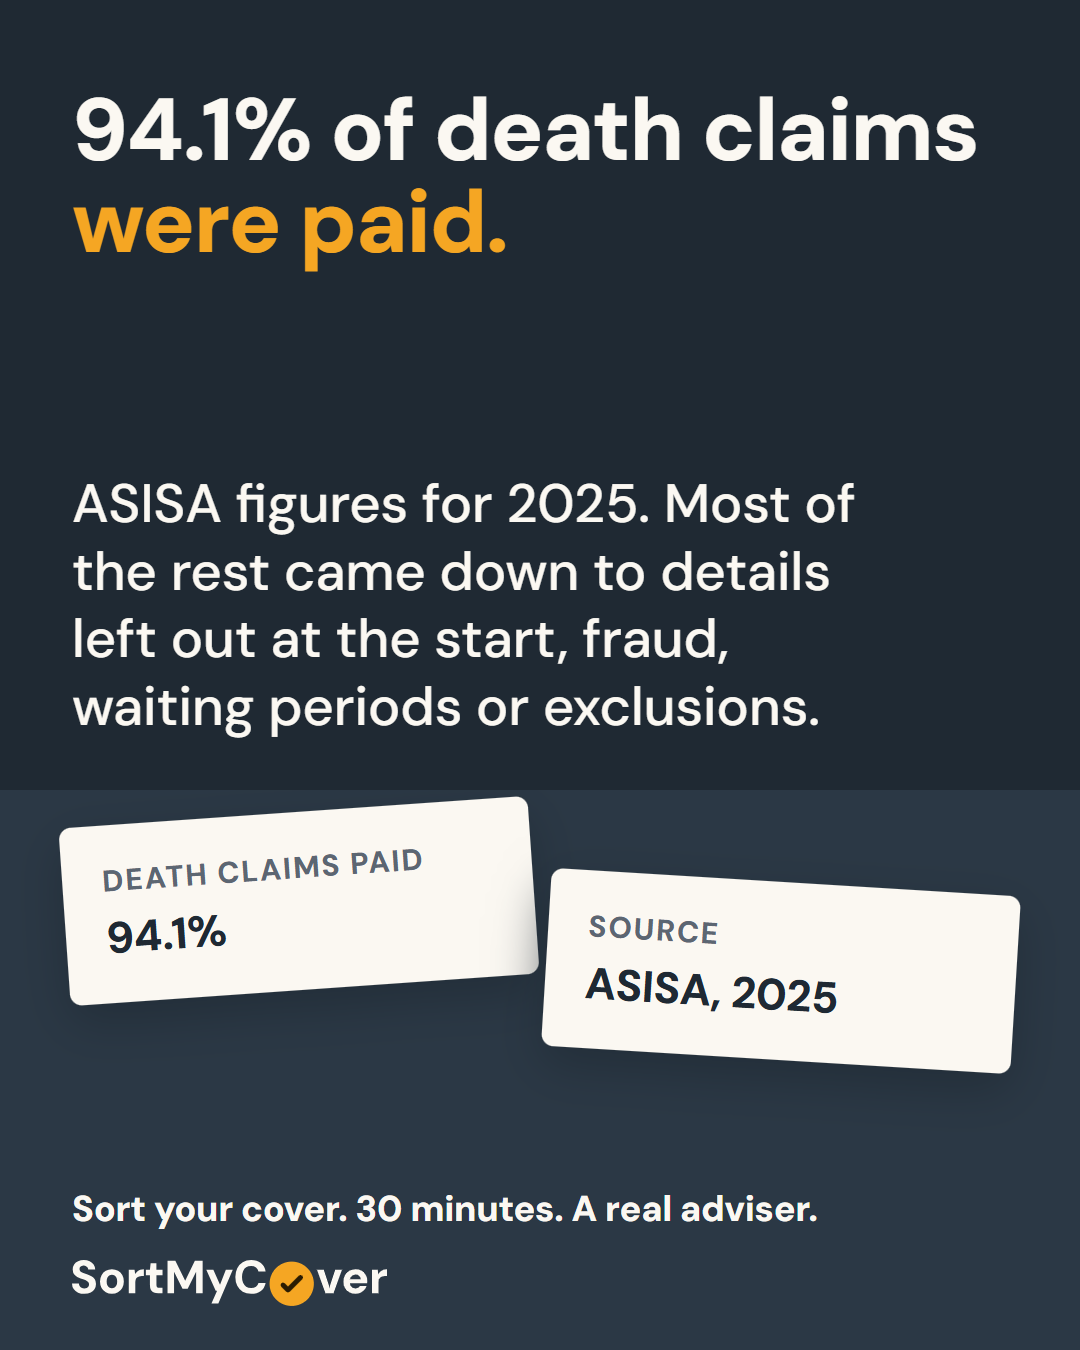
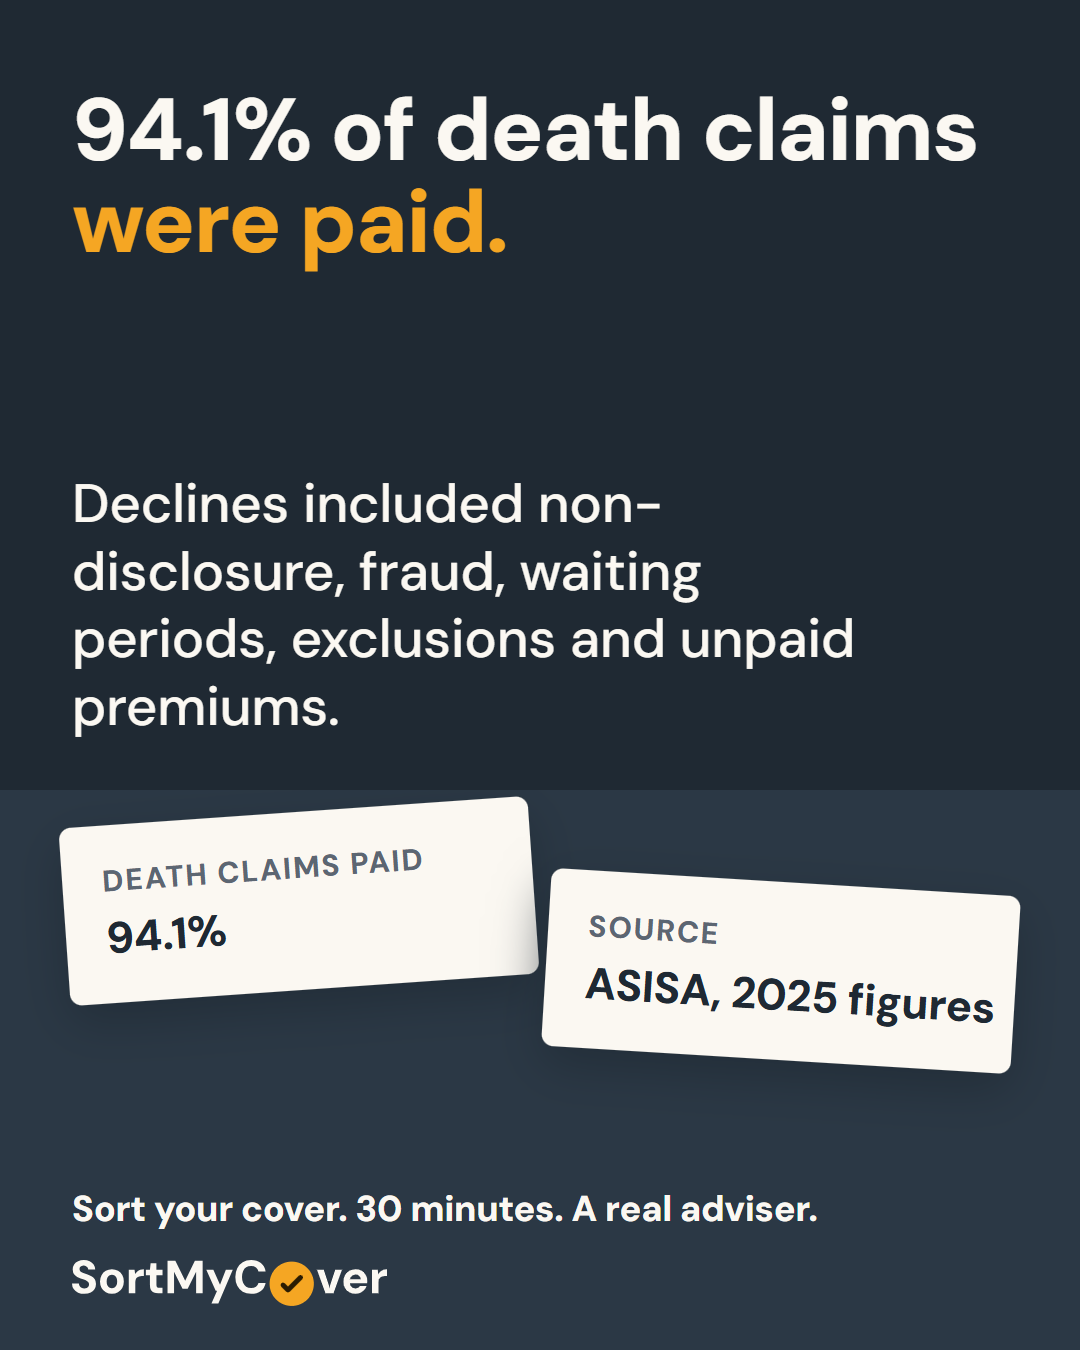
smc: posts corrected after adversarial QA (WU02 live, WU05/C01-C03 scheduled), C01 image re-rendered, FB bio v4

Changed region(s): [[0.0611, 0.3422, 0.7944, 0.56], [0.7639, 0.7156, 0.9167, 0.7778]]

diff --git a/deliverables/brand-naming-lead/disclosure-wording.md b/deliverables/brand-naming-lead/disclosure-wording.md
@@ -32,8 +32,8 @@ Character counts are hand-counted, including spaces and punctuation. The person 
 | `DISC-WA-DESC-v2` | WhatsApp Business profile: Description | SortMyCover gives no financial advice, product comparisons or premium quotes. Licensed financial advisers do. Our WhatsApp assistant uses AI. Type "person" at any time to reach a human. Reply STOP to opt out. Privacy: sortmycover.co.za/privacy.html | 248 |
 | `DISC-CARD-v2` | Broker intro card, strip under the broker's details | Introduced by SortMyCover. SortMyCover gives no financial advice, product comparisons or premium quotes. | 104 |
 | `DISC-EMAIL-v2` | Consumer email signature (below) | `DISC-FULL-v2` plus a privacy link | n/a |
-| `BIO-FB-v3`, `BIO-IG-v3` | Facebook intro, Instagram bio | **Unchanged** (§4a of v1): bios describe the service and carry no disclosure | 95, 131 |
-| `DISC-S97-v1`, `DISC-S148-v1` | Old short forms | **Withdrawn.** They named Lead Velocity. Use `DISC-S91-v2` on end-cards. Bios use `BIO-*-v3` | n/a |
+| `BIO-FB-v4`, `BIO-IG-v5` | Facebook intro, Instagram bio | Bios describe the service and carry no disclosure (copy workflow 2026-10-05) | 99, 145 |
+| `DISC-S97-v1`, `DISC-S148-v1` | Old short forms | **Withdrawn.** They named Lead Velocity. Use `DISC-S91-v2` on end-cards. Bios use `BIO-FB-v4` / `BIO-IG-v5` | n/a |
 | `CONSENT-NAMED-v2` | Named consent, beside the form | I agree that SortMyCover may share my details with {practice_name} (FSP {fsp_number}), an authorised financial services provider, who may contact me by WhatsApp or phone about life cover. I can opt out at any time by replying STOP. + `CONSENT-ADS-v1` sentence + "Privacy notice" link | n/a |
 | `CONSENT-GENERIC-v2` | Generic consent (only if the practitioner approves it) | I agree that SortMyCover may share my details with an authorised financial services provider (FSP), who may contact me by WhatsApp or phone about life cover. I can opt out at any time by replying STOP. + `CONSENT-ADS-v1` sentence + link | n/a |
 
@@ -61,8 +61,8 @@ Broker-facing mail keeps the Lead Velocity signature from howzit@leadvelocity.co
 | About page | `DISC-FULL-v2` | Says SortMyCover is a South African service and points to the privacy notice and terms for the responsible company. No address, Reg No or Information Officer |
 | Form / consent area | `CONSENT-*-v2` | Privacy link always beside it |
 | `privacy.html`, `terms.html` | Legal text, **names Lead Velocity** | The only two places. The footer on these two pages is the same `DISC-FULL-v2` |
-| Facebook Page | `DISC-FULL-v2` in About → details; intro = `BIO-FB-v3` | |
-| Instagram | `BIO-IG-v3` | |
+| Facebook Page | `DISC-FULL-v2` in About → details; intro = `BIO-FB-v4` | |
+| Instagram | `BIO-IG-v5` | |
 | WhatsApp Business profile | `DISC-WA-DESC-v2` + `DISC-WA-ABOUT-v1` | Privacy link in the Description |
 | WhatsApp templates and assistant | No company name | Needs automation-engineer and conversation-designer to align (V2-3) |
 | Ad end-card | `DISC-S91-v2` | Line + "Tap to check your cover". No broker, no FSP number (1.2) |
@@ -173,8 +173,8 @@ I read `deliverables/contracts-drafter/consent-and-privacy.md` and the live hold
 ## 4a. Bios are not disclosures (Jonathan, 2026-10-05)
 
 Facebook Page intro and Instagram bio describe what SortMyCover does for consumers. They no longer carry S97/S148:
-- `BIO-FB-v3` (95): We connect South Africans with licensed advisers to sort their insurance. We don't give advice.
-- `BIO-IG-v3` (131): We connect South Africans with licensed advisers to sort their insurance, on a free 30-minute call. We don't give advice ourselves.
+- `BIO-FB-v4` (99): Sort your cover: free 30-min call with a licensed adviser at a time you pick. We book. They advise.
+- `BIO-IG-v5` (145): Sort your cover. 30 minutes. A real adviser. / Free call, licensed adviser, a time you pick. / We book the call. They advise. You decide. / Message us.
 
 DISC-FULL-v1 stays in Facebook Page About → details, the site footer and the WhatsApp description. S97 stays on the ad end-card. compliance-qa to confirm the bios (they claim no advice, no products, no prices).
 

diff --git a/deliverables/meta-operator/setup-checklist.md b/deliverables/meta-operator/setup-checklist.md
@@ -77,7 +77,7 @@ Common rejection causes to pre-empt (Meta Business Verification docs): legal nam
 |---|---|---|---|
 | 1 | Page name | `SortMyCover` | Not "SortMyCover Insurance", not "Life Cover" |
 | 2 | Category | `Website` (primary). If a second category is offered, `Education`. | **Never** "Insurance company", "Insurance broker", "Insurance agent", "Financial service", "Financial planner" or anything implying licensed status (4.7). If the screen forces a finance-type category, stop and RECORD |
-| 3 | Bio / Intro (short field) | `We connect South Africans with licensed advisers to sort their insurance. We don't give advice.` | `BIO-FB-v3`, 95 characters (Jonathan, 2026-10-05: the bio says what SortMyCover does for consumers, not legal disclosure). The disclosure lives in About (row 8). |
+| 3 | Bio / Intro (short field) | `Sort your cover: free 30-min call with a licensed adviser at a time you pick. We book. They advise.` | `BIO-FB-v4`, 99 characters (copy workflow 2026-10-05: research + judge panel + refuters) (Jonathan, 2026-10-05: the bio says what SortMyCover does for consumers, not legal disclosure). The disclosure lives in About (row 8). |
 | 4 | ★ Jonathan clicks Create Page | | Check the name and category on the confirmation before clicking |
 | 5 | Username | `sortmycover` (shows as @sortmycover) | If taken, stop and RECORD; do not use a variant without brand-naming-lead |
 | 6 | Website | `https://sortmycover.co.za` **only after GATE-DOMAINS is live and the holding page loads on that domain**. Until then leave empty. | Never the staging host (0.1). NH-MO-02 |
@@ -95,7 +95,7 @@ Common rejection causes to pre-empt (Meta Business Verification docs): legal nam
 
 | # | Action | Notes |
 |---|---|---|
-| 1 | Create a second Page in the same portfolio: name `SortMyCover South Africa`, category `Website`, same Bio (`BIO-FB-v3`) and About (FULL), same profile/cover files, username left empty unless `sortmycoversa` is free | ★ Jonathan clicks Create. Name is a default (NH-MO-04) |
+| 1 | Create a second Page in the same portfolio: name `SortMyCover South Africa`, category `Website`, same Bio (`BIO-FB-v4`) and About (FULL), same profile/cover files, username left empty unless `sortmycoversa` is free | ★ Jonathan clicks Create. Name is a default (NH-MO-04) |
 | 2 | Publish it but run nothing on it. Two or three of the same organic educational posts as the main Page over the first month so it is not an empty shell. | Organic only; no posting scripts |
 | 3 | RECORD the standby Page ID. `brands` has no `standby_page_id` column: store it in `handles` as `{"fb_standby_page_id": "..."}` until platform-architect adds the column (NH-MO-05). `G2-04-standby-page.png` | |
 
@@ -106,7 +106,7 @@ Common rejection causes to pre-empt (Meta Business Verification docs): legal nam
 | 1 | Business Settings, Accounts, Instagram accounts, Add (or from the Page: Settings, Linked accounts, Instagram, Connect) | Create a **new** Instagram account from the Page; type **Business** (not Creator). ★ Jonathan clicks Create/Connect |
 | 2 | Username | `sortmycover`. If taken, stop and RECORD |
 | 3 | Name | `SortMyCover` |
-| 4 | Bio | `We connect South Africans with licensed advisers to sort their insurance, on a free 30-minute call. We don't give advice ourselves.` (`BIO-IG-v3`, 131 characters; Jonathan 2026-10-05: consumer-benefit bio, disclosure on the linked Page About and site) |
+| 4 | Bio | `Sort your cover. 30 minutes. A real adviser. / Free call, licensed adviser, a time you pick. / We book the call. They advise. You decide. / Message us.` (`BIO-IG-v5`, 145 characters, 4 lines; Jonathan 2026-10-05: consumer-benefit bio, disclosure on the linked Page About and site) |
 | 5 | Link | `https://sortmycover.co.za` only after GATE-DOMAINS; empty until then |
 | 6 | Category | `Website` or `Education`; never a finance/insurance category. Display category on profile: off if the toggle exists |
 | 7 | Contact options | Email `hello@sortmycover.co.za` after the alias works; no phone; no address |

diff --git a/deliverables/meta-operator/warmup-posts/WU02.md b/deliverables/meta-operator/warmup-posts/WU02.md
@@ -11,16 +11,16 @@ Status: compliance-qa PASS WITH FIX 5 Oct 2026 (beneficiary line, see deliverabl
 | 5 Oct change (Jonathan) | "Send us a message" CTA → landing-page CTA; DISC-S97-v1 (named Lead Velocity) → "SortMyCover gives no financial advice, product comparisons or premium quotes." Competitors must not see the Lead Velocity link |
 | Edits (profile-kit §3, 5 Oct) | Hook kept (already specific to the employed ICP). Soft CTA "Questions about the free 30-minute call? Send us a message." added above the disclosure. NEW: compliance-qa to check |
 
-## Facebook text (~602 chars)
+## Facebook text (as scheduled/published after QA, 2026-10-06; 674 chars)
 
 ```text
 That line on the payslip that says group life, death benefit or risk benefit: what does it usually mean?
 
-It is usually a lump sum paid out if a member dies while employed, worked out as a multiple of yearly salary.
+Usually, cover that pays a lump sum if a member dies while employed, worked out as a multiple of yearly salary. A risk benefit line can also include disability or funeral cover.
 
-What it usually does not do: carry on after the job ends, or grow when a new bond or a baby arrives.
+What it usually does not do: carry on after the job ends, or grow by itself when a new bond or a baby arrives.
 
-Three questions many people take to HR: How is the amount worked out? What happens if the job ends? Who is the beneficiary?
+Three questions for HR: How is the amount worked out? What happens if the job ends? Who is named as the beneficiary?
 
 Pick a time for a free 30-minute call with a licensed adviser: sortmycover.co.za
 

diff --git a/deliverables/meta-operator/current-posts/C01.md b/deliverables/meta-operator/current-posts/C01.md
@@ -17,12 +17,12 @@ Status: DRAFT 5 Oct 2026, compliance-qa to check. Jonathan posts/schedules in Bu
 | Cross-check (R44bn) | Primedia Plus, "SA life insurers pay R44 billion to policy beneficiaries in 2025" https://www.primediaplus.com/2026/06/16/sa-life-insurers-pay-r44-billion-to-policy-beneficiaries-in-2025 | 16 Jun 2026 |
 | Context (not used in copy): R626bn total claims and benefits 2025 | IOL https://iol.co.za/personal-finance/financial-planning/2026-04-04-asisa-reports-r626-billion-in-life-insurance-claims-paid-in-2025/ | 4 Apr 2026 |
 
-## Facebook text (~590 chars)
+## Facebook text (as scheduled/published after QA, 2026-10-06; 624 chars)
 
 ```text
-Life insurers in South Africa paid 94.1% of death claims in 2025 (ASISA, 2025 figures). That is more than 1 million claims and R44.2 billion paid to beneficiaries.
+Life insurers that are ASISA members paid 94.1% of death claims in 2025 (ASISA, 2025 figures). That is more than 1 million claims and R44.2 billion paid to beneficiaries.
 
-Why were the others turned down? ASISA lists details left out when the policy started (non-disclosure), fraud, waiting periods and policy exclusions.
+Why were the others turned down? ASISA's reasons include details left out when the policy started (non-disclosure), fraud, waiting periods, policy exclusions and unpaid premiums that let cover lapse.
 
 One plain lesson: full, honest answers to the health and lifestyle questions at the start.
 

diff --git a/deliverables/meta-operator/warmup-posts/WU05.md b/deliverables/meta-operator/warmup-posts/WU05.md
@@ -12,7 +12,7 @@ Status: compliance-qa PASS 5 Oct 2026 (deliverables/compliance-qa/warmup-review.
 | Edits (profile-kit §3, 5 Oct) | New first line "Who gives the advice? Not SortMyCover." (= the image headline; answers the sceptic first; this is the pinned post). Soft CTA "Questions about the free 30-minute call? Send us a message." added above the disclosure. Both NEW: compliance-qa to check |
 | Wording note | Fee line was compliance-qa fix P-4; since 5 Oct it names SortMyCover instead of the company (re-pass needed). P-3 (POPIA/ads purpose) is avoided by not making the "details only used to arrange the call" claim |
 
-## Facebook text (~611 chars)
+## Facebook text (as scheduled/published after QA, 2026-10-06; 627 chars)
 
 ```text
 Who gives the advice? Not SortMyCover.
@@ -23,7 +23,7 @@ How SortMyCover works, in three lines:
 2. SortMyCover helps book a free 30-minute call with a licensed adviser, for a time that suits, then steps back.
 3. The adviser gives the advice. SortMyCover does not.
 
-Advisers pay SortMyCover the same flat fee for each 30-day cycle, whether or not anyone buys. SortMyCover never takes commission.
+Advisers pay SortMyCover a flat fee for each 30-day cycle. The fee is the same whether or not anyone buys. SortMyCover never takes commission.
 
 Pick a time for a free 30-minute call with a licensed adviser: sortmycover.co.za
 

diff --git a/deliverables/meta-operator/current-posts/C02.md b/deliverables/meta-operator/current-posts/C02.md
@@ -17,14 +17,14 @@ Status: DRAFT 5 Oct 2026, compliance-qa to check. Jonathan posts/schedules in Bu
 | Prime lending rate to 10.75% | Moneyweb, "Sarb ups repo rate to 7.25%" https://www.moneyweb.co.za/news/economy/sarb-ups-repo-rate-to-7-25/ | 23 Sep 2026 |
 | Variable-rate home loans are linked to prime; repayments move with it | Nedbank, "Understanding how repo rate works" https://personal.nedbank.co.za/borrow/debt-assistance/repo-rate.html | evergreen (bank named in source only, never in copy) |
 
-## Facebook text (~560 chars)
+## Facebook text (as scheduled/published after QA, 2026-10-06; 538 chars)
 
 ```text
 The SARB raised the repo rate to 7.25% on 23 September 2026. The prime rate at the banks moved to 10.75%.
 
-What does that mean in plain words? Home loans on a variable rate are linked to prime. When prime goes up, the monthly bond repayment on those loans usually goes up too.
+What does that mean in plain words? Most home loans on a variable rate are linked to prime. When prime goes up, the monthly bond repayment on those loans usually goes up too.
 
-Many households use a rate change as a prompt to list what they owe each month, and who depends on that income.
+A rate change can be a prompt to list what is owed each month, and who depends on that income.
 
 Pick a time for a free 30-minute call with a licensed adviser: sortmycover.co.za
 

diff --git a/deliverables/meta-operator/current-posts/C03.md b/deliverables/meta-operator/current-posts/C03.md
@@ -19,7 +19,7 @@ Status: DRAFT 5 Oct 2026, compliance-qa to check. Jonathan posts/schedules in Bu
 | FSP search page | FSCA https://www.fsca.co.za/Fais/Search_FSP.htm | live |
 | "Every adviser on a SortMyCover call shares a name and FSP number first" | Approved product claim, W1D5 FAQ card 5 (`brand/scripts/build-week1.mjs`) | 5 Oct 2026 |
 
-## Facebook text (~560 chars)
+## Facebook text (as scheduled/published after QA, 2026-10-06; 577 chars)
 
 ```text
 The FSCA keeps warning about people who pretend to be licensed advisers, often on social media and WhatsApp.
@@ -29,7 +29,7 @@ How to check an adviser, in three steps:
 2. Search it on the FSCA website (fsca.co.za) or call the FSCA toll-free on 0800 110 443.
 3. Check that the name and the licence match.
 
-Every adviser on a SortMyCover call shares a name and FSP number first.
+These steps can be used to check any adviser, including one booked through SortMyCover.
 
 Pick a time for a free 30-minute call with a licensed adviser: sortmycover.co.za
 
